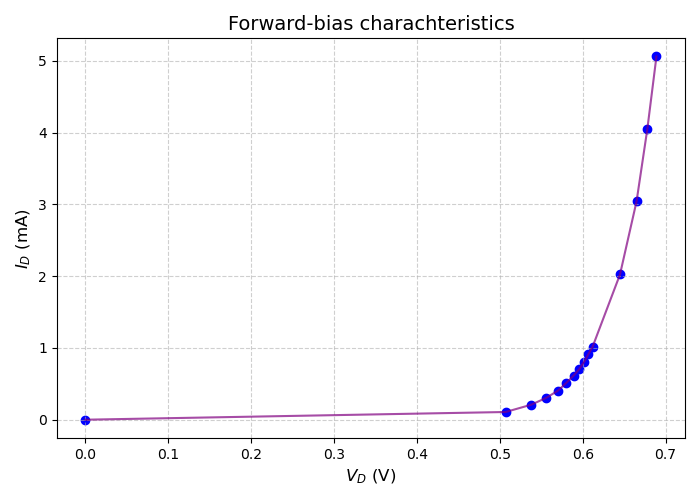
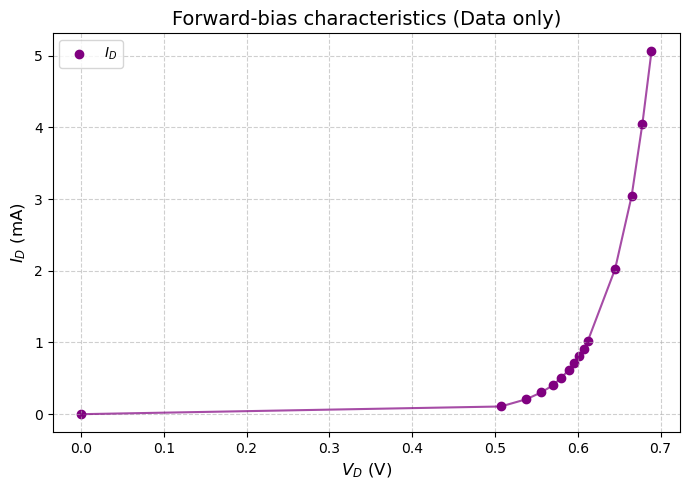
updated plots part 2

diff --git a/Lab01/Code/Part2Plot.py b/Lab01/Code/Part2Plot.py
@@ -1,13 +1,15 @@
 import matplotlib.pyplot as plt
 import numpy as np
+from scipy.optimize import curve_fit
+from sklearn.metrics import r2_score
 
 # V_D values
-x_values = [0, # Extended to origin
+x_values = [0.000, # Extended to origin
             0.507,
             0.538,
             0.556,
-            0.57,
-            0.58,
+            0.570,
+            0.580,
             0.589,
             0.596,
             0.602,
@@ -35,26 +37,46 @@ y_values = [0, # Extended to origin
             4.048365881,
             5.059192553] # I_D
 
-# Convert to numpy arrays for calculations
+# --- Convert to numpy arrays ---
 x = np.array(x_values)
 y = np.array(y_values)
 
-# --- Plot settings ---
+# --- Plot 1: Original data only ---
 plt.figure(figsize=(7,5))
-
-# Scatter plot of points
-plt.scatter(x, y, color="blue", marker="o", label="Data points")
-
-# Connect points with a line
+plt.scatter(x, y, color="purple", marker="o", label="$I_D$")
 plt.plot(x, y, color="purple", linestyle="-", alpha=0.7)
-
-# Axis labels with subscript (using LaTeX formatting)
 plt.xlabel(r"$V_{D}$ (V)", fontsize=12)
 plt.ylabel(r"$I_{D}$ (mA)", fontsize=12)
-
-# Formatting
-plt.title("Forward-bias charachteristics", fontsize=14)
+plt.title("Forward-bias characteristics (Data only)", fontsize=14)
 plt.grid(True, linestyle="--", alpha=0.6)
+plt.legend()
 plt.tight_layout()
+plt.show()
 
+# --- Define exponential function ---
+def exp_func(x, a, b):
+    return a * np.exp(b * x)
+
+# --- Fit the exponential curve ---
+params, covariance = curve_fit(exp_func, x, y, p0=(1e-6, 20))  # initial guess
+y_fit = exp_func(x, *params)
+
+# Calculate R^2
+r2 = r2_score(y, y_fit)
+
+# Format 'a' in scientific notation automatically
+a_sci = "{:.2e}".format(params[0])
+
+# --- Plot 2: Data + Exponential Regression ---
+plt.figure(figsize=(7,5))
+plt.scatter(x, y, color="purple", marker="o", label="$I_D$")
+plt.plot(x, y, color="purple", linestyle="-", alpha=0.7)
+plt.plot(x, y_fit, color="blue", linestyle="--",
+         label=f"$I_D$ fit: exp = {a_sci}·e^({params[1]:.3f}·$V_D$)\n$R^2$ = {r2:.4f}")
+plt.xlabel(r"$V_{D}$ (V)", fontsize=12)
+plt.ylabel(r"$I_{D}$ (mA)", fontsize=12)
+plt.title("Forward-bias characteristics (With regression)", fontsize=14)
+plt.grid(True, linestyle="--", alpha=0.6)
+plt.legend()
+plt.tight_layout()
 plt.show()
